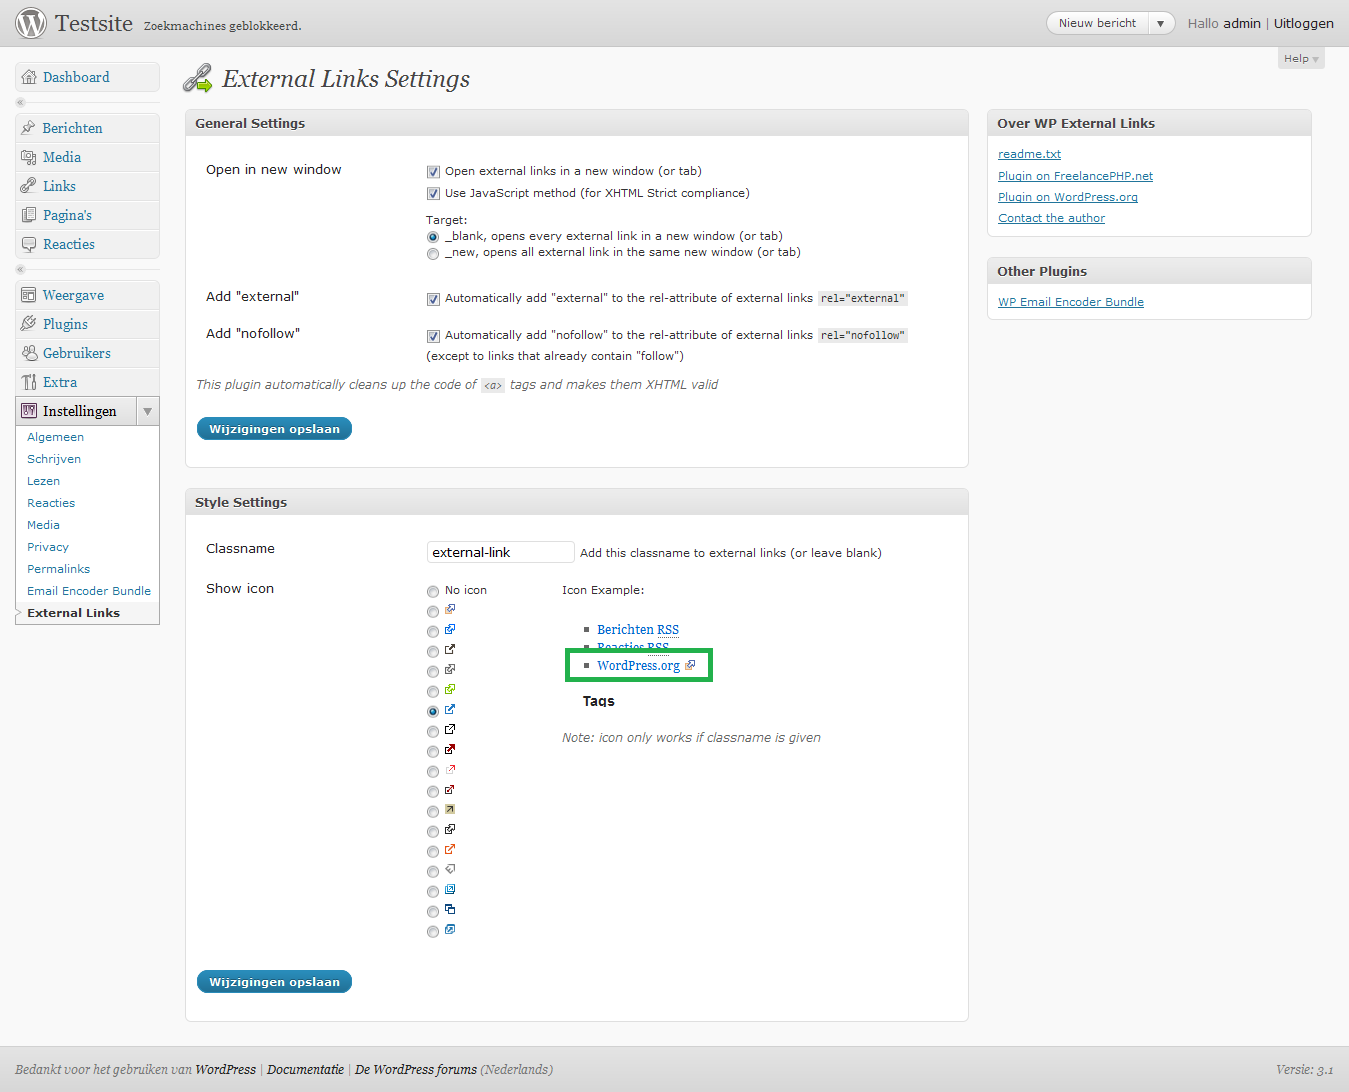
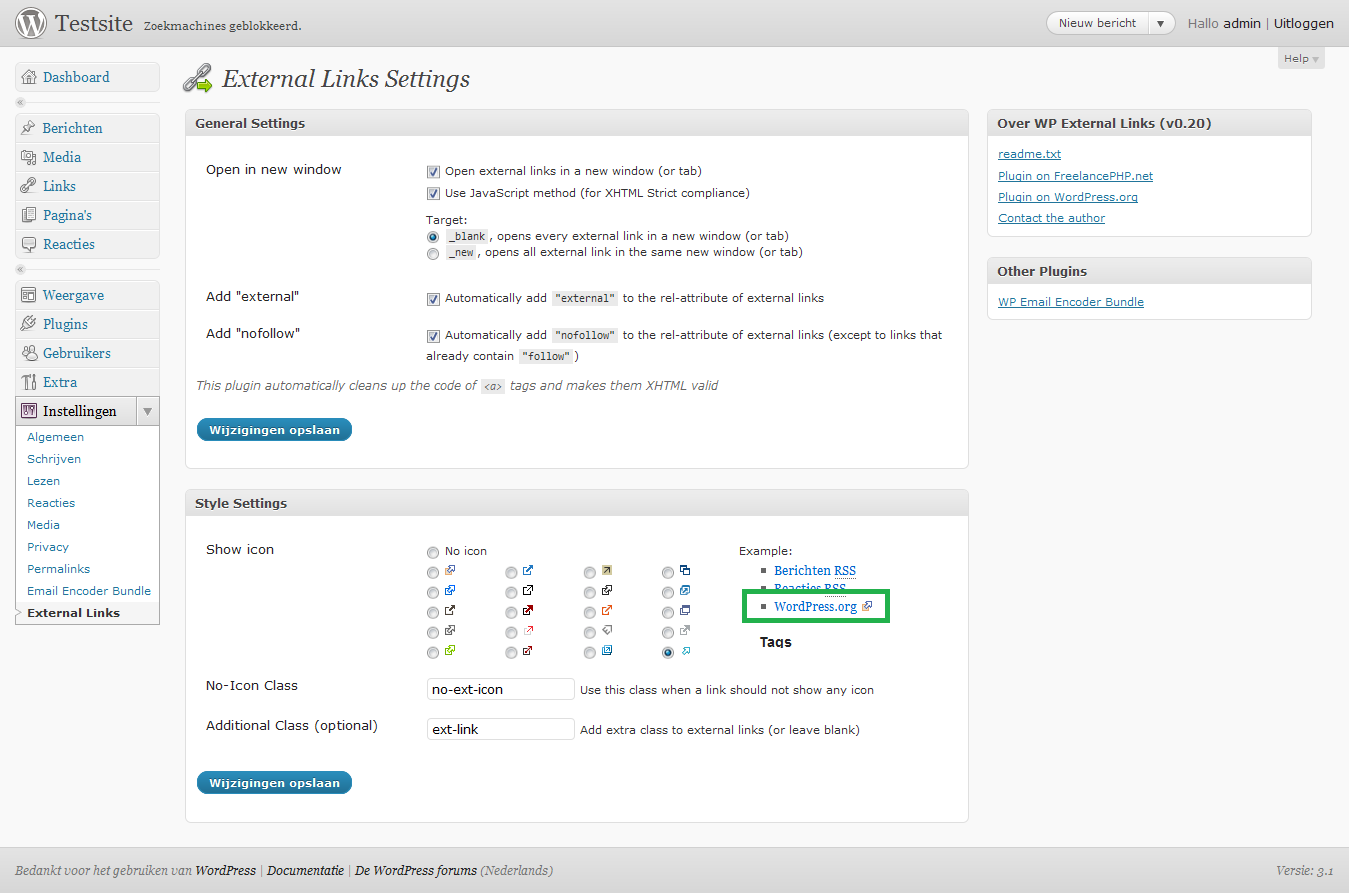
git-svn-id: https://plugins.svn.wordpress.org/wp-external-links/trunk@354189 b8457f37-d9ea-0310-8a92-e5e31aec5664

diff --git a/css/external-links.css b/css/external-links.css
@@ -1,0 +1,21 @@
+/* WP External Links Plugin */
+.ext-icon-1 { background: url( ../images/external-1.png ) no-repeat 100% 50%; padding-right: 15px; }
+.ext-icon-2 { background: url( ../images/external-2.png ) no-repeat 100% 50%; padding-right: 15px; }
+.ext-icon-3 { background: url( ../images/external-3.png ) no-repeat 100% 50%; padding-right: 15px; }
+.ext-icon-4 { background: url( ../images/external-4.png ) no-repeat 100% 50%; padding-right: 15px; }
+.ext-icon-5 { background: url( ../images/external-5.png ) no-repeat 100% 50%; padding-right: 15px; }
+.ext-icon-6 { background: url( ../images/external-6.png ) no-repeat 100% 50%; padding-right: 15px; }
+.ext-icon-7 { background: url( ../images/external-7.png ) no-repeat 100% 50%; padding-right: 15px; }
+.ext-icon-8 { background: url( ../images/external-8.png ) no-repeat 100% 50%; padding-right: 15px; }
+.ext-icon-9 { background: url( ../images/external-9.png ) no-repeat 100% 50%; padding-right: 15px; }
+.ext-icon-10 { background: url( ../images/external-10.png ) no-repeat 100% 50%; padding-right: 15px; }
+.ext-icon-11 { background: url( ../images/external-11.png ) no-repeat 100% 50%; padding-right: 15px; }
+.ext-icon-12 { background: url( ../images/external-12.png ) no-repeat 100% 50%; padding-right: 15px; }
+.ext-icon-13 { background: url( ../images/external-13.png ) no-repeat 100% 50%; padding-right: 15px; }
+.ext-icon-14 { background: url( ../images/external-14.png ) no-repeat 100% 50%; padding-right: 15px; }
+.ext-icon-15 { background: url( ../images/external-15.png ) no-repeat 100% 50%; padding-right: 15px; }
+.ext-icon-16 { background: url( ../images/external-16.png ) no-repeat 100% 50%; padding-right: 15px; }
+.ext-icon-17 { background: url( ../images/external-17.png ) no-repeat 100% 50%; padding-right: 15px; }
+.ext-icon-18 { background: url( ../images/external-18.png ) no-repeat 100% 50%; padding-right: 15px; }
+.ext-icon-19 { background: url( ../images/external-19.png ) no-repeat 100% 50%; padding-right: 15px; }
+.ext-icon-20 { background: url( ../images/external-20.png ) no-repeat 100% 0; padding-right: 12px; }

diff --git a/js/external-links.js b/js/external-links.js
@@ -1,4 +1,4 @@
-// WP External Links Plugin
+/* WP External Links Plugin */
 (function( w, $ ){
 
 	var addEvt = function ( el, evt, fn ) {

diff --git a/wp-external-links.php b/wp-external-links.php
@@ -4,7 +4,7 @@ Plugin Name: WP External Links
 Plugin URI: http://www.freelancephp.net/
 Description: Manage the external links on your site: opening in a new window, set link icon, set "external", set "nofollow", set css-class.
 Author: Victor Villaverde Laan
-Version: 0.12
+Version: 0.20
 Author URI: http://www.freelancephp.net
 License: Dual licensed under the MIT and GPL licenses
 */
@@ -16,17 +16,25 @@ License: Dual licensed under the MIT and GPL licenses
 class WP_External_Links {
 
 	/**
+	 * Current version
+	 * @var string
+	 */
+	var $version = '0.20';
+
+	/**
 	 * Used as prefix for options entry and could be used as text domain (for translations)
 	 * @var string
 	 */
 	var $domain = 'WP_External_Links';
 
 	/**
+	 * Name of the options
 	 * @var string
 	 */
 	var $options_name = 'WP_External_Links_options';
 
 	/**
+	 * Options to be saved
 	 * @var array
 	 */
 	var $options = array(
@@ -36,7 +44,8 @@ class WP_External_Links {
 			'external' => TRUE,
 			'nofollow' => TRUE,
 			'icon' => 1,
-			'class_name' => 'external-link',
+			'no_icon_class' => 'no-ext-icon',
+			'class_name' => 'ext-link',
 		);
 
 	/**
@@ -97,9 +106,12 @@ class WP_External_Links {
 			// add wp_head for setting js vars and css style
 			add_action( 'wp_head', array( $this, 'wp_head' ) );
 
+			// add stylesheet
+			wp_enqueue_style( 'wp-external-links', plugins_url( 'css/external-links.css', __FILE__ ), FALSE, $this->version );
+
 			// set js file
 			if ( $this->options[ 'use_js' ] ) {
-				wp_enqueue_script( 'external-links', plugins_url( 'js/external-links.js', __FILE__ ), array( 'jquery' ), '0.11' );
+				wp_enqueue_script( 'wp-external-links', plugins_url( 'js/external-links.js', __FILE__ ), array( 'jquery' ), $this->version );
 			}
 		}
 	}
@@ -108,40 +120,41 @@ class WP_External_Links {
 	 * Callback wp_head
 	 */
 	function wp_head() {
+		if ( $this->options[ 'use_js' ] ):
 ?>
-<?php if ( $this->options[ 'use_js' ] ): ?>
-<!-- JS External Links Plugin -->
-<script language="javascript">
-/* <![CDATA[ */
+<script language="javascript">/* <![CDATA[ */
+/* WP External Links Plugin */
 var gExtLinks = {
 	baseUrl: '<?php echo get_bloginfo( 'url' ) ?>',
 	target: '<?php echo $this->options[ 'target' ] ?>'
 };
-/* ]]> */
-</script>
-<!-- /JS External Links Plugin -->
-<?php endif; ?>
-<?php if ( $this->options[ 'class_name' ] AND $this->options[ 'icon' ] > 0 ): ?>
-<!-- Style External Links Plugin -->
-<style type="text/css">
-	.<?php echo $this->options[ 'class_name' ] ?> {
-		 background: url( <?php echo plugins_url( 'images/external-'. $this->options[ 'icon' ] .'.png', __FILE__ ) ?> ) no-repeat right center;
-		 padding-right: 15px;
-	};
-</style>
-<!-- /Style External Links Plugin -->
-<?php endif; ?>
+/* ]]> */</script>
 <?php
+		endif;
 	}
 
 	/**
 	 * Filter content
+	 * @param string $content
+	 * @return string
 	 */
 	function filter_content( $content ) {
+		// remove style when no icon classes are found
+		if ( strpos( $content, 'ext-icon-' ) == FALSE ) {
+			// remove style with id wp-external-links-css
+			$content = preg_replace( '/<link(.*?)wp-external-links-css(.*?)\/>[\s+]*/i','' ,$content );
+		}
+
+		// get <a> elements
 		$a_pattern = '/<[aA](.*?)>(.*?)<\/[aA][\s+]*>/i';
 		return preg_replace_callback( $a_pattern, array( $this, 'parse_link' ), $content );
 	}
 
+	/**
+	 * Make a clean <a> code
+	 * @param array $match Result of a preg call in filter_content()
+	 * @return string Clean <a> code
+	 */
 	function parse_link( $match ) {
 		$attrs = shortcode_parse_atts( $match[ 1 ] );
 
@@ -168,7 +181,16 @@ var gExtLinks = {
 								: $attrs[ 'rel' ] .' nofollow';
 			}
 
-			// set class
+			// set icon class, unless no-icon class isset or another icon class ('ext-icon-...') is found
+			if ( $this->options[ 'icon' ] > 0 AND ( empty( $this->options[ 'no_icon_class' ] ) OR strpos( $attrs[ 'class' ], $this->options[ 'no_icon_class' ] ) === FALSE ) AND strpos( $attrs[ 'class' ], 'ext-icon-' ) === FALSE  ){
+				$icon_class = 'ext-icon-'. $this->options[ 'icon' ];
+
+				$attrs[ 'class' ] = ( empty( $attrs[ 'class' ] ) )
+									? $icon_class
+									: $attrs[ 'class' ] .' '. $icon_class;
+			}
+
+			// set user-defined class
 			if ( ! empty( $this->options[ 'class_name' ] ) AND ( empty( $attrs[ 'class' ] ) OR strpos( $attrs[ 'class' ], $this->options[ 'class_name' ] ) === FALSE ) ){
 				$attrs[ 'class' ] = ( empty( $attrs[ 'class' ] ) )
 									? $this->options[ 'class_name' ]
@@ -214,10 +236,20 @@ var gExtLinks = {
 ?>
 <script language="javascript">
 jQuery(function( $ ){
-	$( 'input#new_window' ).change(function(){
-		var anim = $( this ).attr( 'checked' ) ? 'slideDown' : 'slideUp';
-		$( 'div.new_window_options' )[ anim ]();
-	})
+	// remove message
+	$( '.settings-error' )
+		.hide()
+		.slideDown( 600 )
+		.delay( 3000 )
+		.slideUp( 600 );
+
+	// option slide effect
+	$( 'input#new_window' )
+		.change(function(){
+			var anim = $( this ).attr( 'checked' ) ? 'slideDown' : 'slideUp';
+			$( 'div.new_window_options' )[ anim ]();
+		})
+		.change();
 })
 </script>
 	<div class="wrap">
@@ -244,28 +276,29 @@ jQuery(function( $ ){
 							<td>
 								<label><input type="checkbox" name="<?php echo $this->options_name ?>[new_window]" id="new_window" value="1" <?php checked( '1', (int) $options['new_window'] ); ?> />
 								<span><?php _e( 'Open external links in a new window (or tab)', $this->domain ) ?></span></label>
-								<div class="new_window_options">
-								<p><label><input type="checkbox" name="<?php echo $this->options_name ?>[use_js]" value="1" <?php checked( '1', (int) $options['use_js'] ); ?> />
-									<span><?php _e( 'Use JavaScript method (for XHTML Strict compliance)', $this->domain ) ?></span></label>
-								</p><p><span><?php _e( 'Target:', $this->domain ) ?></span>
-									<br/><label><input type="radio" name="<?php echo $this->options_name ?>[target]" value="_blank" <?php checked( '_blank', $options['target'] ); ?> />
-									<span><?php _e( '_blank, opens every external link in a new window (or tab)', $this->domain ) ?></span></label>
-									<br/><label><input type="radio" name="<?php echo $this->options_name ?>[target]" value="_new" <?php checked( '_new', $options['target'] ); ?> />
-									<span><?php _e( '_new, opens all external link in the same new window (or tab)', $this->domain ) ?></span></label>
-								</p>
+								<div class="new_window_options" style="display:none">
+									<p><label><input type="checkbox" name="<?php echo $this->options_name ?>[use_js]" value="1" <?php checked( '1', (int) $options['use_js'] ); ?> />
+										<span><?php _e( 'Use JavaScript method (for XHTML Strict compliance)', $this->domain ) ?></span></label>
+									</p>
+									<p><span><?php _e( 'Target:', $this->domain ) ?></span>
+										<br/><label><input type="radio" name="<?php echo $this->options_name ?>[target]" value="_blank" <?php checked( '_blank', $options['target'] ); ?> />
+										<span><?php _e( '<code>_blank</code>, opens every external link in a new window (or tab)', $this->domain ) ?></span></label>
+										<br/><label><input type="radio" name="<?php echo $this->options_name ?>[target]" value="_new" <?php checked( '_new', $options['target'] ); ?> />
+										<span><?php _e( '<code>_new</code>, opens all external link in the same new window (or tab)', $this->domain ) ?></span></label>
+									</p>
 								</div>
 							</td>
 						</tr>
 						<tr>
 							<th><?php _e( 'Add "external"', $this->domain ) ?></th>
 							<td><label><input type="checkbox" id="<?php echo $this->options_name ?>[external]" name="<?php echo $this->options_name ?>[external]" value="1" <?php checked('1', (int) $options['external']); ?> />
-								<span><?php _e( 'Automatically add "external" to the rel-attribute of external links <code>rel="external"</code>', $this->domain ) ?></span></label>
+								<span><?php _e( 'Automatically add <code>"external"</code> to the rel-attribute of external links', $this->domain ) ?></span></label>
 							</td>
 						</tr>
 						<tr>
 							<th><?php _e( 'Add "nofollow"', $this->domain ) ?></th>
 							<td><label><input type="checkbox" id="<?php echo $this->options_name ?>[nofollow]" name="<?php echo $this->options_name ?>[nofollow]" value="1" <?php checked('1', (int) $options['nofollow']); ?> />
-								<span><?php _e( 'Automatically add "nofollow" to the rel-attribute of external links <code>rel="nofollow"</code> (except to links that already contain "follow")', $this->domain ) ?></span></label>
+								<span><?php _e( 'Automatically add <code>"nofollow"</code> to the rel-attribute of external links (except to links that already contain <code>"follow"</code>)', $this->domain ) ?></span></label>
 							</td>
 						</tr>
 						</table>
@@ -284,29 +317,39 @@ jQuery(function( $ ){
 					<fieldset class="options">
 						<table class="form-table">
 						<tr>
-							<th><?php _e( 'Classname', $this->domain ) ?></th>
-							<td><label><input type="text" id="<?php echo $this->options_name ?>[class_name]" name="<?php echo $this->options_name ?>[class_name]" value="<?php echo $options['class_name']; ?>" />
-								<span><?php _e( 'Add this classname to external links (or leave blank)', $this->domain ) ?></span></label></td>
-						</tr>
-						<tr>
 							<th><?php _e( 'Show icon', $this->domain ) ?>
 	 						</th>
 							<td>
-								<div style="width:74%;float:right"><?php _e( 'Icon Example:', $this->domain ) ?>
-									<br/>
-									<br/><img src="<?php echo plugins_url( 'images/link-icon-example.png', __FILE__ ) ?>"	/>
-									<br/>
-									<br/><span class="description"><?php _e( 'Note: icon only works if classname is given', $this->domain ) ?></span>
-								</div>
-								<div style="width:25%;float:left">
-								<label><input type="radio" name="<?php echo $this->options_name ?>[icon]" value="0" <?php checked('0', (int) $options['icon']); ?> />
-								<span><?php _e( 'No icon', $this->domain ) ?></span></label>
-						<?php for ( $x = 1; $x <= 17; $x++ ): ?>
-							<br/><label><input type="radio" name="<?php echo $this->options_name ?>[icon]" value="<?php echo $x ?>" <?php checked( $x, (int) $options['icon'] ); ?> />
-								<img src="<?php echo plugins_url( 'images/external-'. $x .'.png', __FILE__ ) ?>" /></label>
-						<?php endfor; ?>
+								<div>
+									<div style="width:15%;float:left">
+										<label><input type="radio" name="<?php echo $this->options_name ?>[icon]" value="0" <?php checked('0', (int) $options['icon']); ?> />
+										<span><?php _e( 'No icon', $this->domain ) ?></span></label>
+									<?php for ( $x = 1; $x <= 20; $x++ ): ?>
+										<br/>
+										<label title="<?php _e( 'Choose this icon to show in all external links. You can also add the class \'ext-icon-'. $x .'\' to a specific link.' ) ?>"><input type="radio" name="<?php echo $this->options_name ?>[icon]" value="<?php echo $x ?>" <?php checked( $x, (int) $options['icon'] ); ?> />
+										<img src="<?php echo plugins_url( 'images/external-'. $x .'.png', __FILE__ ) ?>" /></label>
+										<?php if ( $x % 5 == 0 ): ?>
+									</div>
+									<div style="width:15%;float:left">
+										<?php endif; ?>
+									<?php endfor; ?>
+									</div>
+									<div style="width:29%;float:left;"><?php _e( 'Example:', $this->domain ) ?>
+										<br/><img src="<?php echo plugins_url( 'images/link-icon-example.png', __FILE__ ) ?>"	/>
+									</div>
+									<br style="clear:both" />
 								</div>
 							</td>
+						</tr>
+						<tr>
+							<th><?php _e( 'No-Icon Class', $this->domain ) ?></th>
+							<td><label><input type="text" id="<?php echo $this->options_name ?>[no_icon_class]" name="<?php echo $this->options_name ?>[no_icon_class]" value="<?php echo $options['no_icon_class']; ?>" />
+								<span><?php _e( 'Use this class when a link should not show any icon', $this->domain ) ?></span></label></td>
+						</tr>
+						<tr>
+							<th><?php _e( 'Additional Class (optional)', $this->domain ) ?></th>
+							<td><label><input type="text" id="<?php echo $this->options_name ?>[class_name]" name="<?php echo $this->options_name ?>[class_name]" value="<?php echo $options['class_name']; ?>" />
+								<span><?php _e( 'Add extra class to external links (or leave blank)', $this->domain ) ?></span></label></td>
 						</tr>
 						</table>
 					</fieldset>
@@ -322,7 +365,7 @@ jQuery(function( $ ){
 		<div style="margin:0 5px;">
 			<div class="postbox">
 				<div class="handlediv" title="<?php _e( 'Click to toggle' ) ?>"><br/></div>
-				<h3 class="hndle"><?php _e( 'About' ) ?> WP External Links</h3>
+				<h3 class="hndle"><?php _e( 'About' ) ?> WP External Links (v<?php echo $this->version ?>)</h3>
 				<div class="inside">
 					<ul>
 						<li><a href="<?php echo plugins_url( 'readme.txt', __FILE__ ) ?>" target="_blank">readme.txt</a></li>
@@ -381,6 +424,9 @@ jQuery(function( $ ){
 			$this->options['external'] = ! empty( $saved_options['external'] );
 			$this->options['nofollow'] = ! empty( $saved_options['nofollow'] );
 			$this->options['icon'] = $saved_options['icon'];
+			$this->options['no_icon_class'] = ( ! isset( $saved_options['no_icon_class'] ) )
+											? $this->options['no_icon_class']
+											: $saved_options['no_icon_class'];
 			$this->options['class_name'] = $saved_options['class_name'];
 		}
 	}
